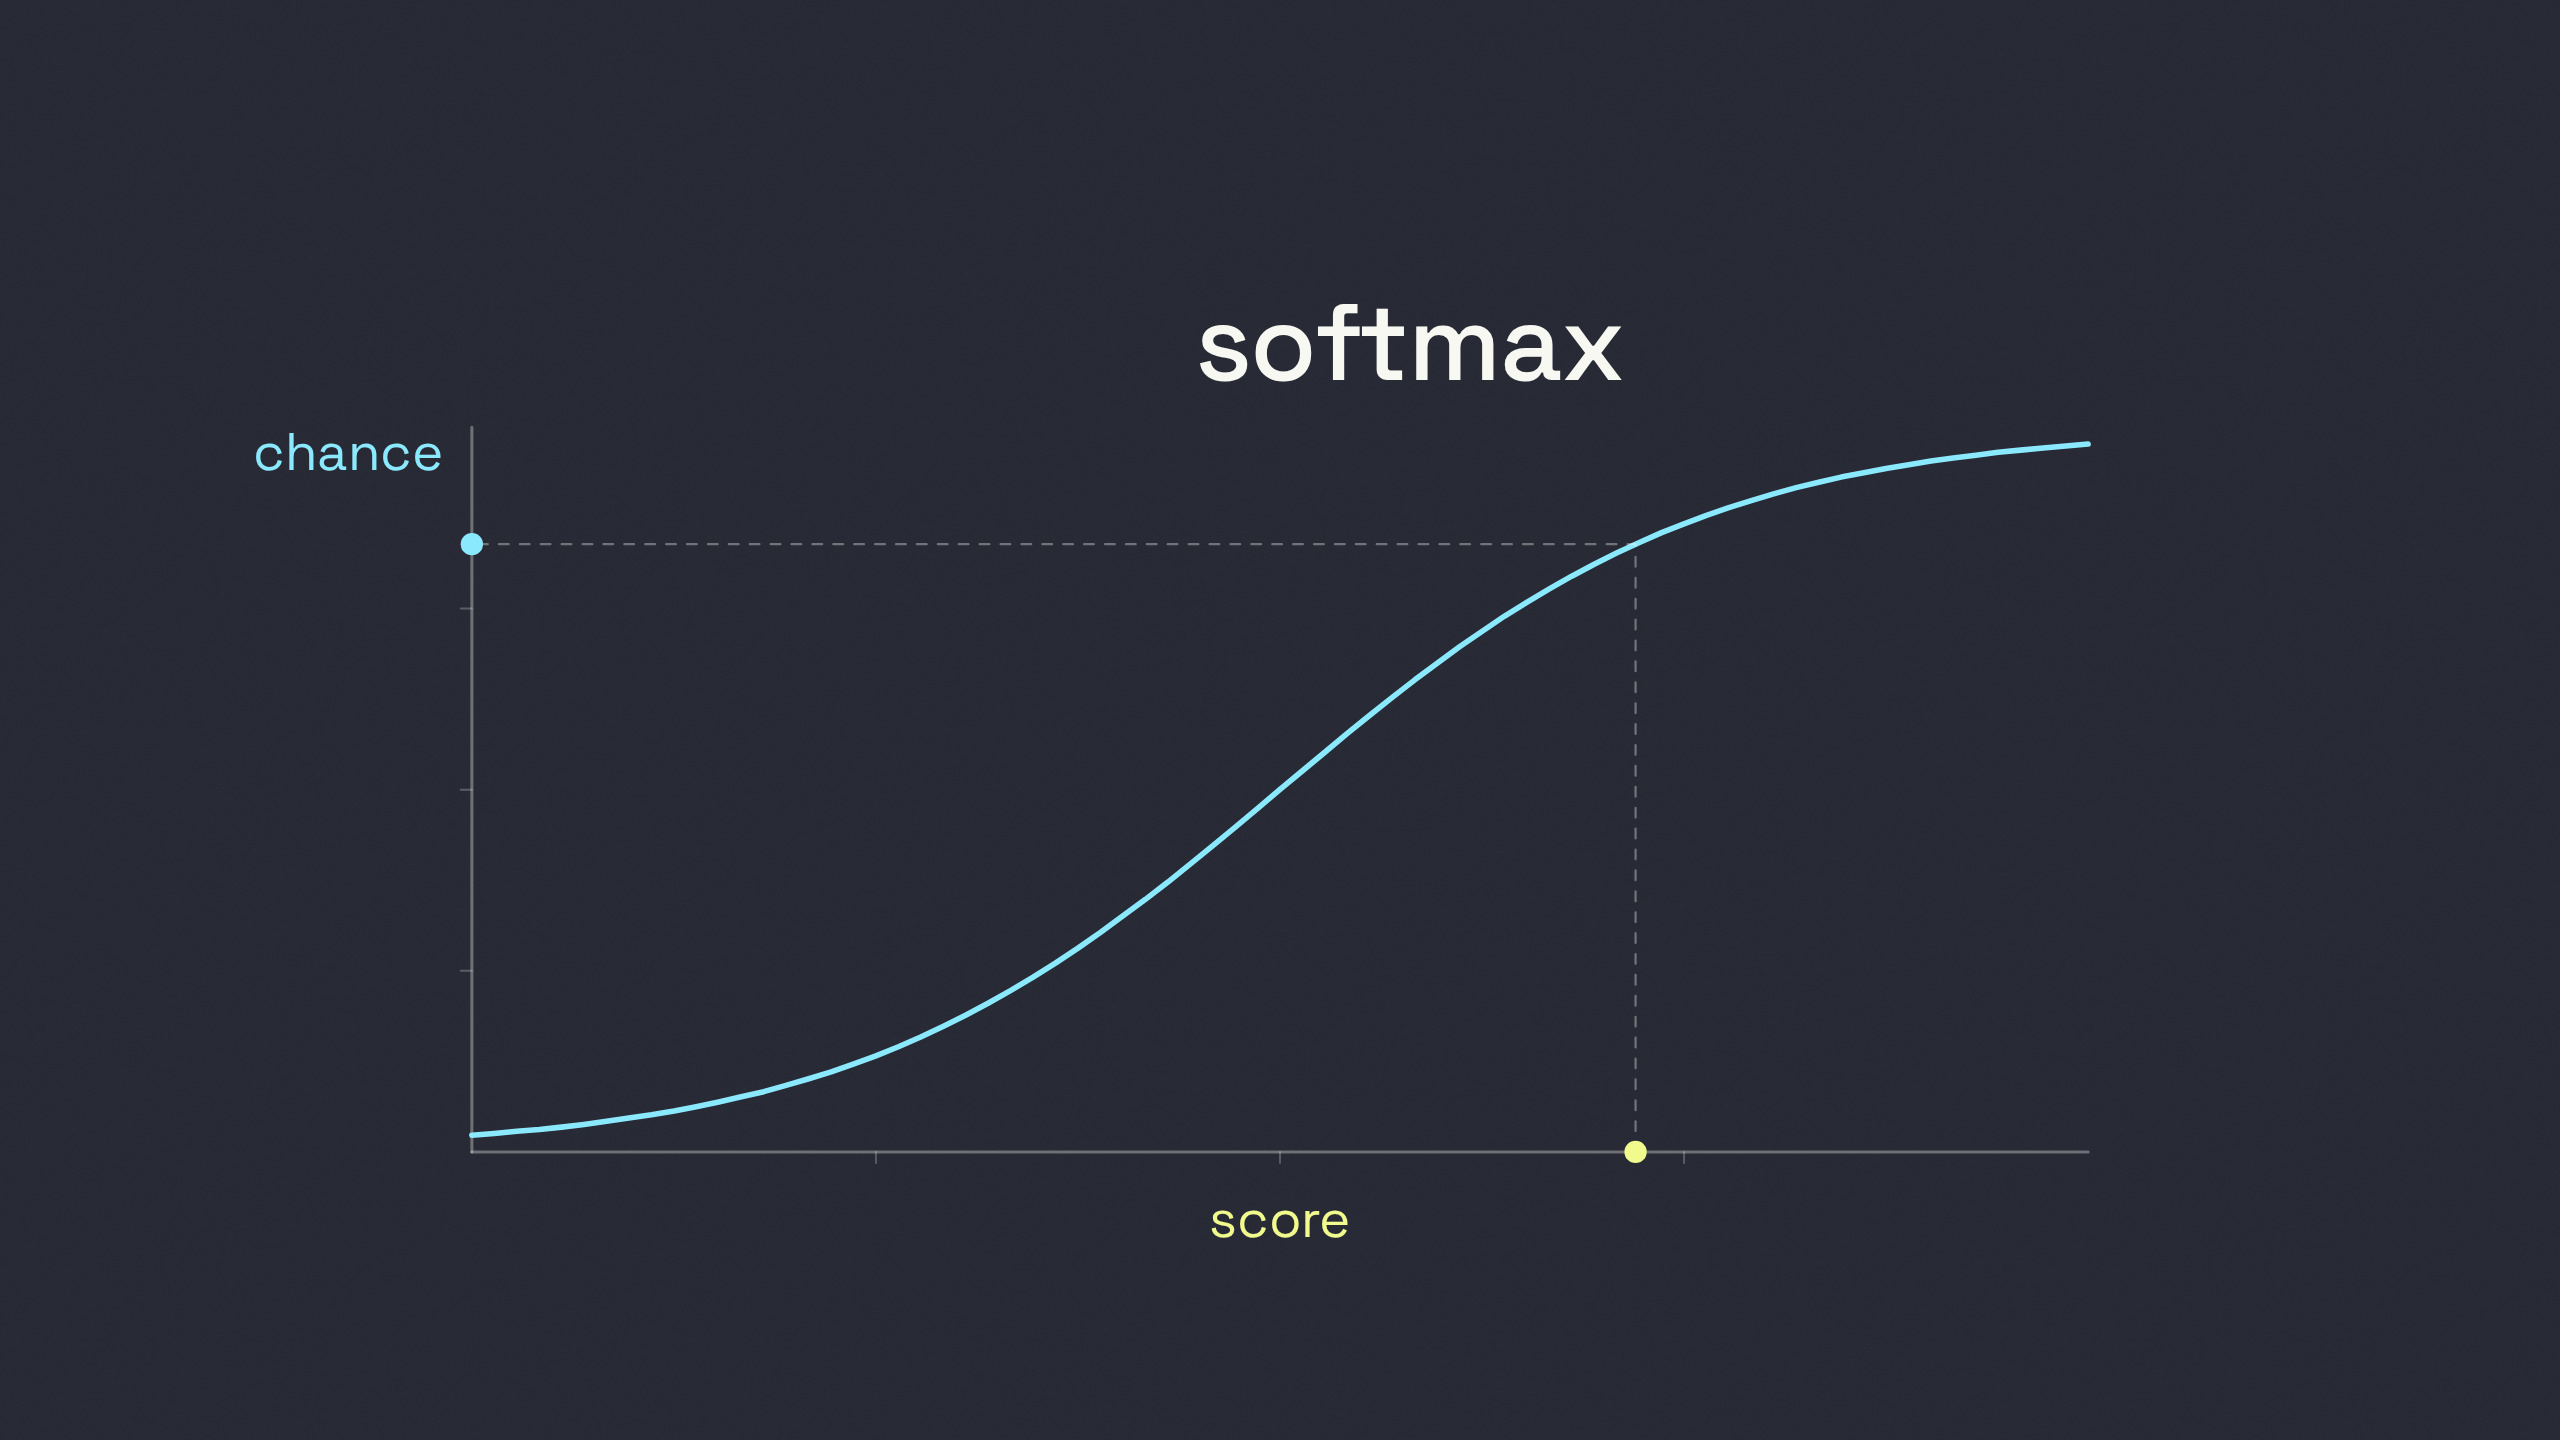
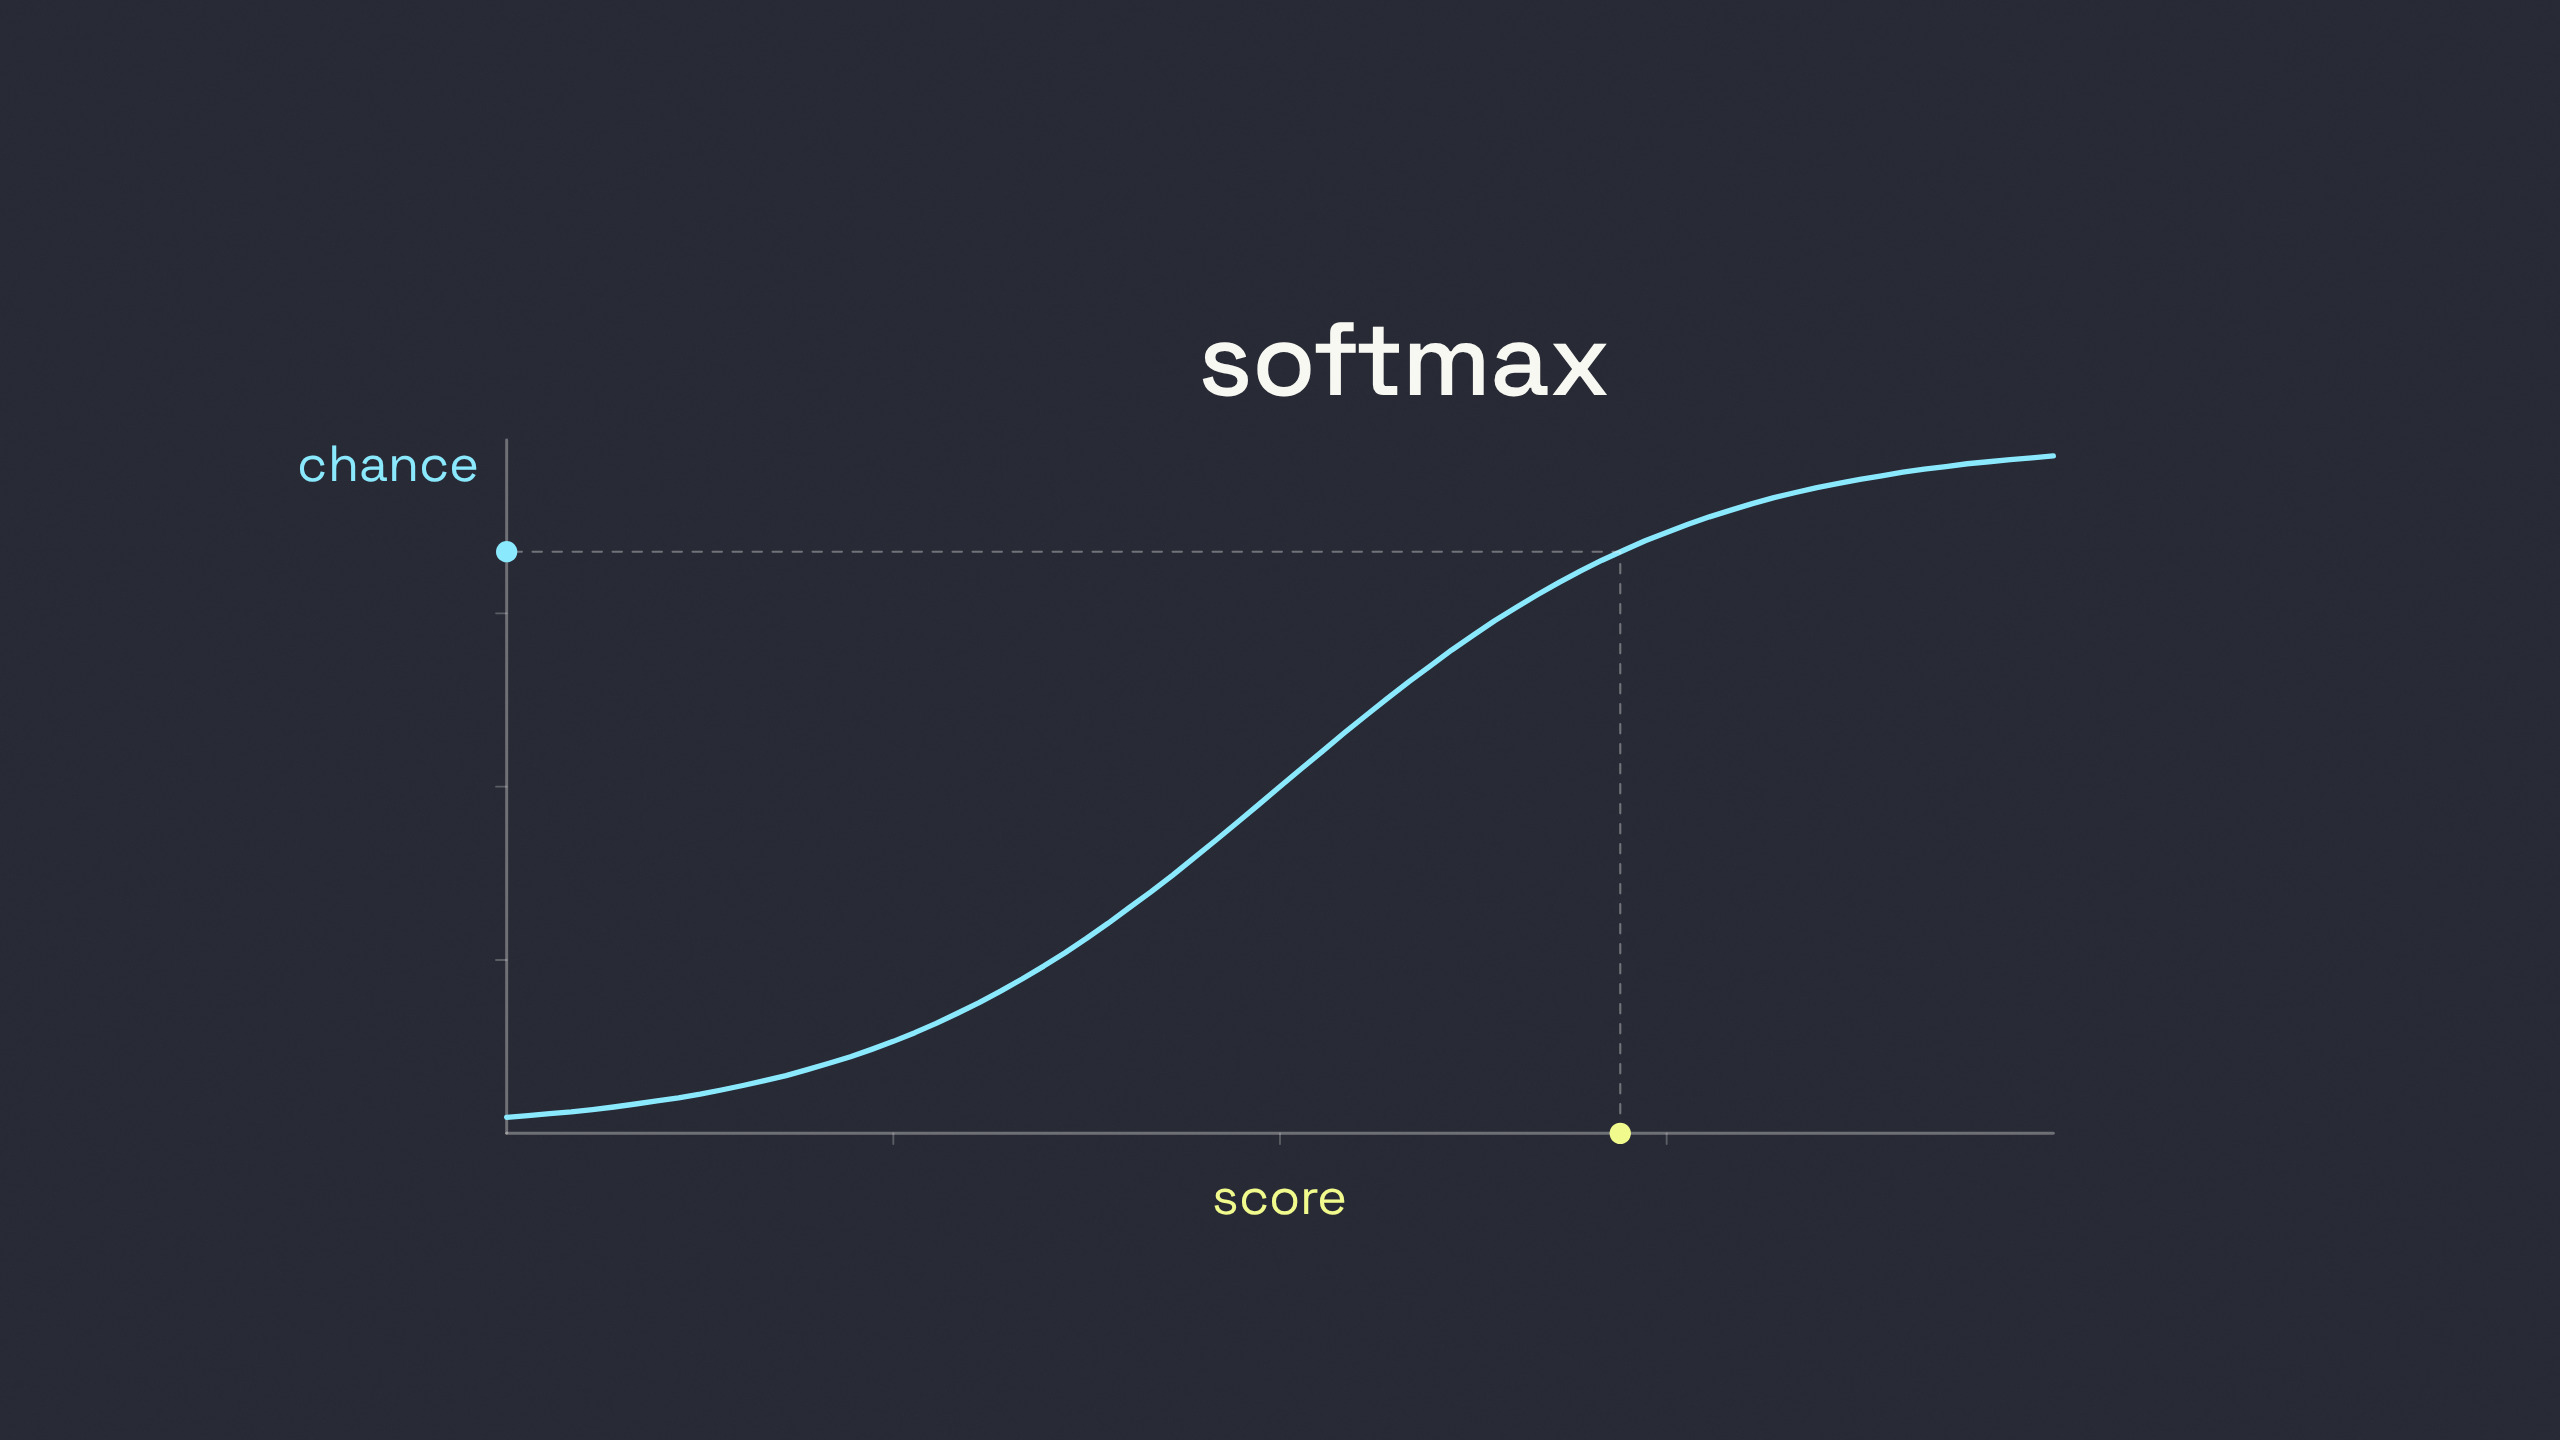
Remove hook camera push-in so the first cut is continuous; document camera continuity rule

diff --git a/preview/js/scenes/one_gate.js b/preview/js/scenes/one_gate.js
@@ -1,6 +1,5 @@
 import {
-  C, F, W, H, clamp, lerp, p, enter, easeOutCubic, card, text, line, arrow,
-  strokePath, underline, measure, icon,
+  C, F, p, enter, card, text, line, arrow, strokePath, measure,
 } from '../kit.js';
 import {
   M, tag, chip, statement, heroNumber, gate, leak, flow, pathFlow, paperCard,
@@ -48,14 +47,8 @@ const one = {
   start: start(1),
   end: start(2),
   draw(ctx, t) {
-    const u = t - one.start;
-    const cam = 1 + 0.045 * easeOutCubic(clamp(u / 4.8));
-    ctx.save();
-    ctx.translate(W / 2, H / 2);
-    ctx.scale(cam, cam);
-    ctx.translate(-W / 2, -H / 2);
-
-    // One anchor: the actual score -> chance curve. Labels attach to the axes.
+    // No per-scene camera push. The hook's motion is the curve itself, so the
+    // next scene can cut in with the identical layout and no zoom reset.
     softmaxCurve(ctx, 380, 330, 1160, 520, {
       alpha: 1,
       axesAlpha: 0.45 + 0.55 * p(t, 0.1, 0.6),
@@ -69,8 +62,6 @@ const one = {
       labelAlpha: p(t, q.softmax, 0.55),
       labelSize: 78,
     });
-
-    ctx.restore();
   },
 };
 

diff --git a/skill_original.md b/skill_original.md
@@ -52,6 +52,7 @@ These are the rules that separate "good enough" from the reference quality.
 17. **Pictures are flat line art, not gradient renders.** When a beat needs a picture, request one with a prompt; use transparent PNG, no gradients/glow/shadows/text. See §22.
 18. **The math should look like the math.** Use the actual curve/shape for a function (for softmax: score vs chance curve) rather than an abstract object the viewer has to decode. See §23.
 19. **No future-state leakage.** A value, label, result, chart, or object that belongs to a later cue must not be visible early — not even faintly. Ghost scaffolds are empty geometry only. If the viewer can read the conclusion at 20% alpha, it is leaked. See §11.4.
+20. **No camera reset at a cut.** A push-in, pull-back, or pan is a sequence-level move, not a scene-level decoration. If the next scene continues the same object, either carry the camera transform across the boundary or remove the move. If the next scene is the identical layout, do not animate a camera at all. A reset zoom is a visible glitch.
 
 ---
 
@@ -166,6 +167,23 @@ The recognizable shape of softmax is a **curve**, not a phone-shaped slot, a glo
 - The curve is the anchor. The word `softmax` attaches to the curve; axis labels sit beside their axes.
 - A gate may be used later as a metaphor for the boundary between thought and speech, but it must never replace the curve when the narration is explaining the function itself.
 - No gradients, no glow, no circular aura around the curve. See §23 for the full case study.
+
+### 4.3 Camera continuity
+
+A camera move is a property of a **sequence**, not of a single scene.
+
+Bad:
+
+- scene 1 pushes in 4.5% over five seconds;
+- scene 2 continues the same curve, but starts at 1.0;
+- at the cut, the whole frame snaps back out. The viewer reads it as a glitch, not a transition.
+
+Good:
+
+- carry the camera transform across the boundary (the next scene starts at the previous scene's final scale/offset), or
+- remove the push-in and let the object animation carry the shot.
+
+If the next scene is **exactly the same layout**, do not add a camera move that cannot be continuous. Static continuity is better than a reset.
 
 ---
 
@@ -812,7 +830,7 @@ This order prevents the “empty then crowded” failure mode:
 - **Bar grow:** width/height from 0 to value over 0.6–0.9s.
 - **Morph/move:** interpolate position/scale with `easeInOut` over 0.8–1.2s.
 - **Dim:** alpha 1→0.35–0.55 over 0.4s when the focus moves.
-- **No typewriter text. No blur-in. No 3D flips. No bouncing logos.**
+- **No typewriter text. No blur-in. No 3D flips. No bouncing logos. No per-scene zoom reset.** If the next scene shares the same object, carry the camera state or cut without a camera move.
 
 ### 11.4 Ghost scaffolds — empty geometry only
 
@@ -1190,6 +1208,7 @@ Read the on-screen text as a viewer, not as the author:
 - Does the final state hold long enough?
 - Does any scene have a title-like header that is not the actual content? Remove it.
 - **Future-state audit:** at start + 0.4 and at every beat, is any later label/value/object visible? Faint ghost text counts. Remove it or delay it.
+- **Camera continuity:** does any push-in/pan reset at a cut? If the next scene continues the same object, either carry the transform or remove the move. A snap-back is a bug.
 - **Silent-agent case:** only question + agent + character at the start; loop on “thinking in silence”; tool on “needs a tool”; bars on “beat frontier models”; ½ on “half as many tokens.”
 - **Focus audit:** list every visible text block in the frame. If a beat has more than two, remove one. No corner-label + bottom-caption hooks.
 - **Hook audit:** the first scene must have one anchor and attached labels only. No bottom caption while two other labels are competing.
@@ -1271,6 +1290,7 @@ These are real bugs from the reference build. Put them in the checklist.
 33. **A missing picture must never show a broken box.** Fall back to vector art or omit the slot until the asset arrives.
 34. **A ghost chart or ghost stat reveals the conclusion early.** This is the silent-agent failure: ghost benchmark bars and a ghost ≈½ appeared before their words. Remove the content; keep only empty tracks/frames.
 35. **A candidate word set appears before the pick.** In the scores→chances→one-word scene, showing dog/sat/the/a and the 'chances'/'one word' labels at the 'scores' beat gives the viewer four concepts at once and reveals the answer set before the pick. Show scores only; add the curve on 'softmax'; add the chosen word on 'picks'; add the discarded words on 'throws.'
+36. **The camera resets at a scene cut.** A 4.5% push-in in the hook followed by a 1.0-scale continuation is a snap-back. Carry the camera state or remove the move; if the next scene is the same layout, keep it static.
 
 ---
 
@@ -1301,6 +1321,7 @@ A video is done when all of these are true:
 - [ ] 2K still checked at 100%: flat background, pixel-level grain, no circular bands.
 - [ ] Hook has one focal zone; axis labels sit beside axes; no bottom caption competing.
 - [ ] No future-state leakage: no later label, value, chart, object, or result is readable at scene start or before its cue.
+- [ ] No camera reset at a cut; shared-object continuations keep the same transform or stay static.
 - [ ] README explains how to run, controls, stills, and the fact that no MP4 was rendered.
 - [ ] Server is running on localhost; the URL is verified.
 
